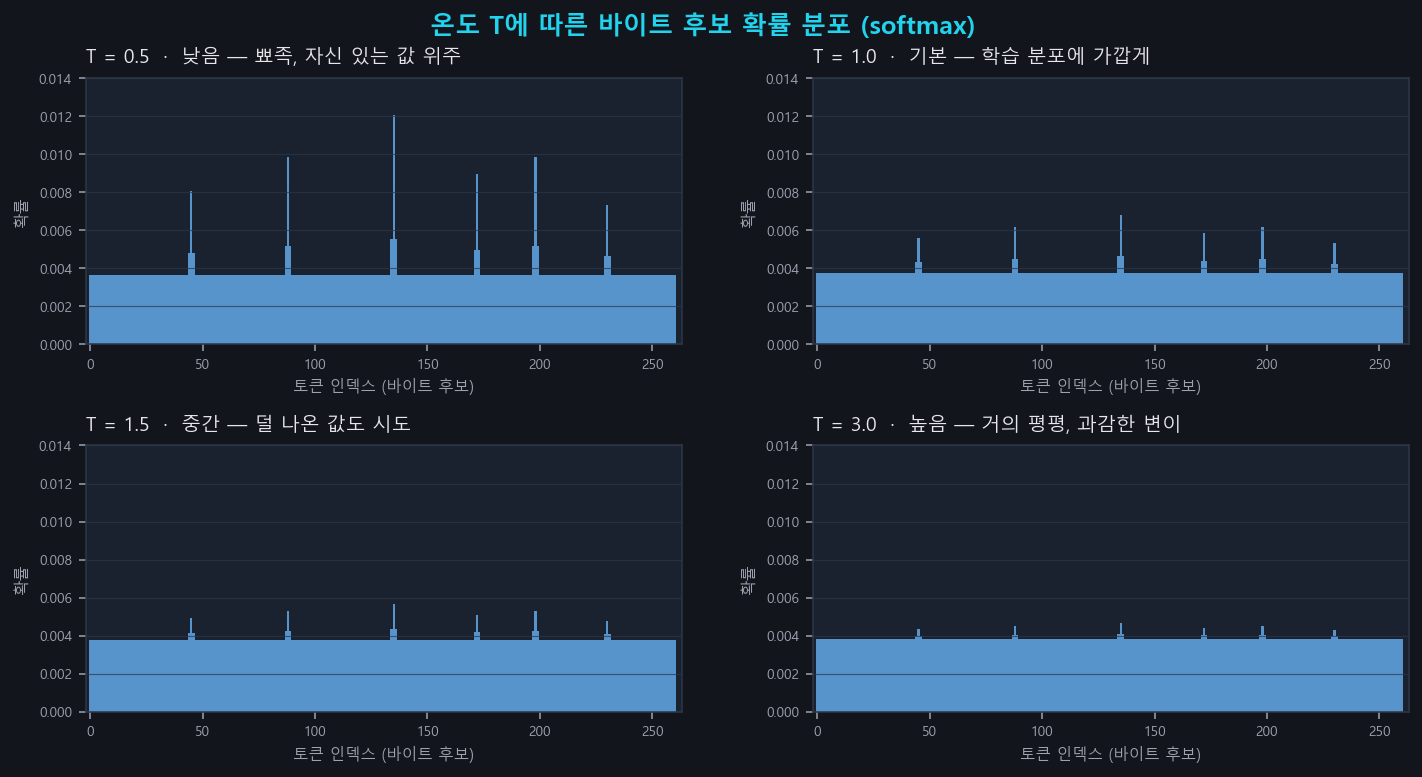
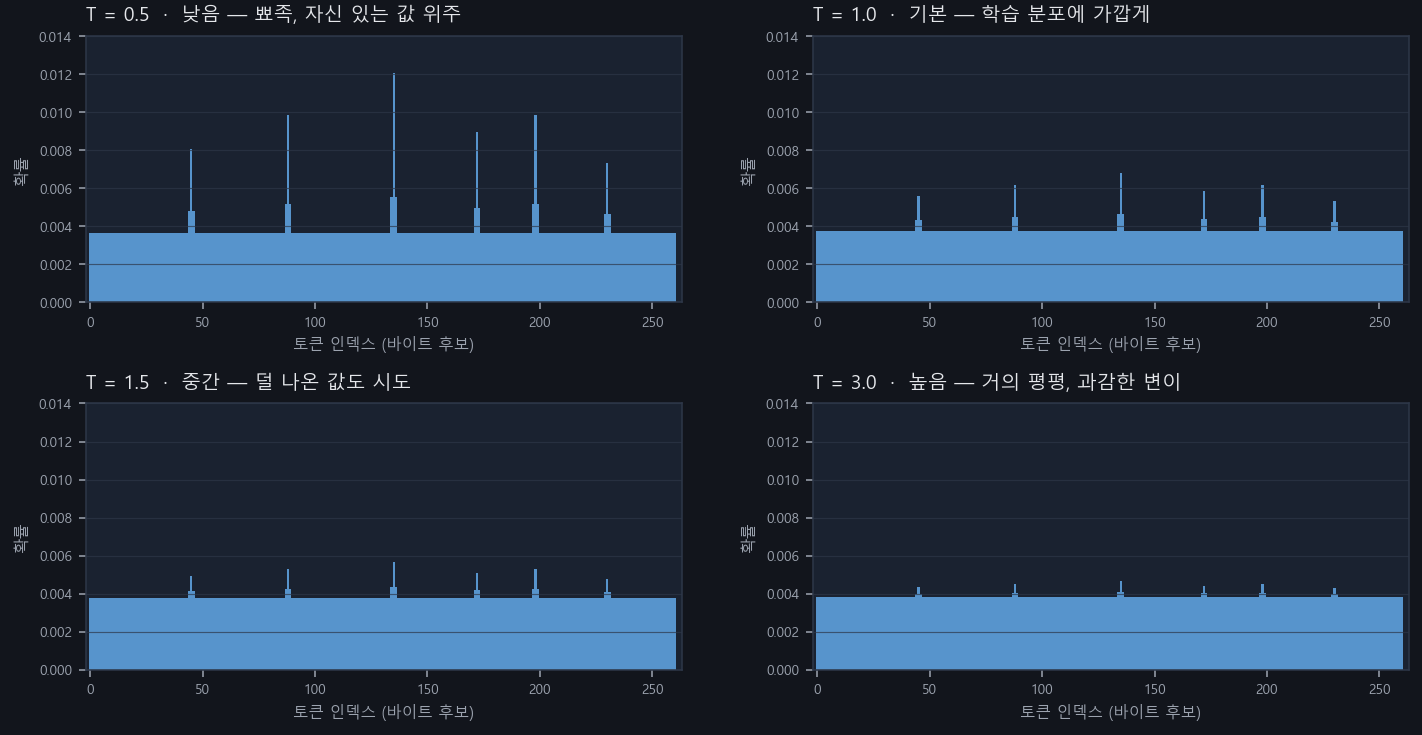
Simplify fuzzing post wording for general readers.
Replace jargon and colloquial phrasing with clearer terms, and link the related anomaly-detection post.

diff --git a/content/posts/papers/roberta-ics-protocol-fuzzing/index.md b/content/posts/papers/roberta-ics-protocol-fuzzing/index.md
@@ -15,52 +15,52 @@ thumbnail: thumbnail.png
 
 # 핵심 요약
 
-- **문제:** 공장·발전소 같은 **ICS/OT** 장비는 보안 점검을 위해 이상한 패킷을 대량으로 넣어 보는 **퍼징**이 필요합니다. 그런데 Modbus/TCP처럼 형식이 엄격한 프로토콜에서는 **막 찢어 버린 입력**은 파서에서 걸리고, **명세 기반으로 템플릿**을 짜 두는 방식은 독점·비공개 프로토콜마다 사람 손이 많이 갑니다.
+- **문제:** 공장·발전소 장비는 멈추면 사고로 이어질 수 있어, **실행 중에만 드러나는 약점**을 찾기 위해 이상한 입력을 넣어 보는 **퍼징(동적 분석)** 이 필요합니다. 그런데 Modbus/TCP처럼 형식이 엄격한 통신에서는 **바이트를 무작위로 바꾼 입력**은 입구에서 바로 걸러지고, **규격서 기반으로 템플릿**을 짜 두는 방식은 제조사마다 통신 방식이 달라 사람 손이 많이 갑니다.
 
-- **방법:** **공격 패킷 없이, 정상 패킷만** 모아 RoBERTa에 “이 위치에는 보통 이런 바이트가 온다”는 패턴을 가르칩니다. 그다음 빈 칸(`<mask>`)을 채워 **새 패킷을 생성**합니다. 프로토콜 명세나 수작업 파서 없이 진행하는 **Parser-free** 방식이며, 이상 탐지 논문과 같이 **1바이트=1토큰**으로 바이트 자리를 유지합니다. 생성할 때 **복원 순서**로 속도와 정밀도를, **온도**로 보수적 선택과 과감한 변이를 조절합니다.
+- **방법:** **공격 패킷 없이, 정상 패킷만** 모아 RoBERTa에 “이 위치에는 보통 이런 바이트가 온다”는 패턴을 가르칩니다. 그다음 빈 칸(`<mask>`)을 채워 **새 패킷을 생성**합니다. 통신 규격서나 패킷을 읽는 코드를 사람이 미리 짜 두지 않고 진행하며, [RoBERTa Quadrant Mapping 기반 ICS 독점 프로토콜 이상 탐지](https://hyeonseok93.github.io/posts/roberta-quadrant-mapping-ics/)와 같이 **1바이트=1토큰**으로 바이트 자리를 유지합니다. 생성할 때는 **빈 칸을 채우는 순서**로 빠르게 많이 만들지·형식을 더 잘 맞출지를 고르고, **변이 강도(온도)** 로 안전한 값 위주와 다양한 변이 사이를 조절합니다.
 
-- **결과:** Modbus/TCP 실험에서 제안 방식은 **명세 기반보다 커버리지·다양성**에서, **랜덤 변이보다 파서 통과율·의미 있는 탐색**에서 앞섰고, **Parallel** 설정으로 **비교군 최고 수준의 처리량**도 냈습니다. 복원 순서·온도로 속도와 변이 강도를 조절할 수 있으며, 학습 패킷만 바꿔도 **그 현장 트래픽에 맞는** 입력이 나옵니다.
+- **결과:** Modbus/TCP 실험에서 제안 방식은 **규격서 기반보다 서버 안쪽을 더 깊게·더 다양하게** 검사했고, **랜덤 변이보다 형식을 지키면서도 의미 있는 탐색**을 더 잘했습니다. 설정에 따라 **하루 수백만 건**까지 보내는 속도도 나왔습니다. 빈 칸을 채우는 순서와 변이 강도(온도)로 속도와 탐색 폭을 조절할 수 있으며, 학습 패킷만 바꿔도 **그 현장 트래픽에 맞는** 입력이 나옵니다.
 
-# 서론. ICS에서 퍼징이 왜 어려운가
+# 서론. 공장 장비 퍼징이 왜 어려운가
 
 ## 1. 공장 장비는 왜 보안 테스트가 까다로운가
 
-일반 IT와 ICS/OT는 운용 전제가 다릅니다.
+일반 IT와 산업 제어 현장은 운용 전제가 다릅니다.
 
-| 항목 | ICS/OT 운용 특성 |
+| 항목 | 산업 제어 현장의 특성 |
 | --- | --- |
-| **가동 중지(Downtime)는 곧 사고** | 발전·제조 설비는 멈추는 순간 물리적 피해로 이어질 수 있습니다. |
-| **지연(Latency) 제약** | 밀리초 단위 제어 타이밍이 중요해, 무거운 암호화·인증 계층을 얹기 어렵습니다. |
-| **긴 교체·패치 주기** | 장비 수명이 10~20년 단위이고, 계획 정비 외 패치가 어렵습니다. |
-| **벤더 이질성** | 세대·제조사가 다른 장비가 한 망에 섞여, 표준 보안 스택을 일괄 적용하기 힘듭니다. |
+| **멈추면 사고** | 발전·제조 설비는 멈추는 순간 물리적 피해로 이어질 수 있습니다. |
+| **타이밍이 중요** | 밀리초 단위 제어가 중요해, 무거운 암호화·인증을 얹기 어렵습니다. |
+| **오래 쓰는 장비** | 수명이 10~20년 단위이고, 계획 정비 외 패치가 어렵습니다. |
+| **제조사가 제각각** | 세대·제조사가 다른 장비가 한 망에 섞여, 표준 보안을 일괄 적용하기 힘듭니다. |
 
-그래서 배포 전 **정적 분석**에 많이 의존해 왔습니다. 그런데 런타임에서만 드러나는 버그나 **비공개(Closed Source) 펌웨어**는 소스를 보지 못하면 정적 분석만으로는 한계가 큽니다. **실행 중인 대상에 입력을 넣어 보는 동적 분석**이 그 빈틈을 메우는 보완 수단으로 거론되며, ICS에서도 **퍼징**이 자주 이야기되는 이유가 여기 있습니다.
+그래서 배포 전 **정적 분석**(소스를 보고 검사)에 많이 의존해 왔습니다. 그런데 실행 중에만 드러나는 버그나 **소스가 공개되지 않은 펌웨어**는 정적 분석만으로는 한계가 큽니다. **실행 중인 대상에 입력을 넣어 보는 동적 분석**이 그 빈틈을 메우는 보완 수단으로 거론되며, 산업 제어에서도 **퍼징**이 자주 이야기되는 이유가 여기 있습니다.
 
 ## 2. 퍼징이란 무엇인가
 
-**퍼징(Fuzzing)** 은 실행 중인 대상에 변이 입력을 반복 투입해 크래시·예외 동작을 찾는 **동적 분석**입니다. 소스나 프로토콜 명세가 부족해도, 네트워크로 닿을 수 있는 대상을 실행 상태에서 검증할 수 있습니다.
+**퍼징(Fuzzing)** 은 실행 중인 대상에 변이 입력을 반복해서 넣어 보고, 크래시·예외 동작을 찾는 **동적 분석**입니다. 소스나 통신 규격서가 부족해도, 네트워크로 닿을 수 있는 대상을 실행 상태에서 검증할 수 있습니다.
 
 > 💡 **쉽게 말하면**  
-> 프로그램·장비에 엉뚱한 입력을 대량으로 넣어 보고, **언제 이상하게 반응하는지** 관찰하는 테스트입니다.
+> 프로그램·장비에 엉뚱한 입력을 많이 넣어 보고, **언제 이상하게 반응하는지** 관찰하는 테스트입니다.
 
-아이디어는 단순하지만, ICS에 그대로 적용하면 **입력을 대량으로 넣는다**는 전제부터 걸림돌을 만나는 경우가 많습니다.
+아이디어는 단순하지만, 산업 제어에 그대로 적용하면 **입력을 많이 넣는다**는 전제부터 걸림돌을 만나는 경우가 많습니다.
 
-## 3. 파서가 만드는 장벽
+## 3. 입구에서 걸리는 문제
 
-가장 흔한 걸림돌이 **파서**입니다. Modbus/TCP 같은 ICS 프로토콜은 **포맷 제약이 엄격**합니다. 헤더·길이·기능 코드가 어긋나면 입구인 **파서**에서 패킷이 버려집니다.
+가장 흔한 걸림돌이 **패킷을 읽는 입구**입니다. Modbus/TCP 같은 산업용 통신은 **포맷 제약이 엄격**합니다. 헤더·길이·명령 코드가 어긋나면 입구에서 패킷이 버려집니다.
 
-- **랜덤 변이 기반** 퍼징은 빠르지만 패킷 형태가 쉽게 깨져, 상당수가 파서 앞에서 걸러집니다.
-- **명세 기반** 퍼징은 형식은 잘 맞추지만, 독점 프로토콜마다 템플릿을 사람이 짜야 합니다.
+- **랜덤 변이 기반** 퍼징은 빠르지만 패킷 형태가 쉽게 깨져, 상당수가 입구에서 걸러집니다.
+- **규격서 기반** 퍼징은 형식은 잘 맞추지만, 제조사마다 통신 방식이 달라 템플릿을 사람이 짜야 합니다.
 
-그렇다면 **명세나 수작업 파서 없이**, 입구인 파서를 통과할 만한 입력을 안정적으로 만들 방법은 없을까?
+그렇다면 **규격서나 패킷을 읽는 코드를 사람이 미리 짜 두지 않고도**, 입구를 통과할 만한 입력을 안정적으로 만들 방법은 없을까?
 
 ## 4. 이 논문이 던진 질문
 
-한 걸음 물러 서 보면, 프로토콜도 결국 **규칙이 있는 데이터**입니다. 헤더·길이·기능 코드가 맞아야 통과하니, 자연어의 **문법**과도 닮았습니다. 그렇다면 패킷 흐름을 **하나의 언어**로 보고, **정상 트래픽만**으로 그 규칙을 익힐 수 있지 않을까요?
+한 걸음 물러 서 보면, 프로토콜도 결국 **규칙이 있는 데이터**입니다. 헤더·길이·명령 코드가 맞아야 통과하니, 자연어의 **문법**과도 닮았습니다. 그렇다면 패킷 흐름을 **하나의 언어**로 보고, **정상 트래픽만**으로 그 규칙을 익힐 수 있지 않을까요?
 
-**마스킹 언어 모델(Masked Language Model, MLM)** 은 일부를 가려 두고 나머지를 맞추며 문법을 배웁니다. 정상 패킷으로 학습하면 **어느 정도 형식은 지키면서** 살짝 어긋난 입력을 뽑을 수 있고, 명세서나 수작업 파서 없이도 파서를 통과할 만한 퍼징 입력을 만들 여지가 있습니다. 논문은 이 아이디어를 이렇게 질문으로 정리합니다.
+**마스킹 언어 모델(Masked Language Model, MLM)** 은 일부를 가려 두고 나머지를 맞추며 문법을 배웁니다. 정상 패킷으로 학습하면 **어느 정도 형식은 지키면서** 살짝 어긋난 입력을 뽑을 수 있고, 규격서나 패킷을 읽는 코드를 새로 짜지 않아도 입구를 통과할 만한 퍼징 입력을 만들 여지가 있습니다. 논문은 이 아이디어를 이렇게 질문으로 정리합니다.
 
-> 프로토콜 명세서 없이, **정상 패킷만**으로 **MLM** 을 사용해 퍼징 입력을 생성할 수 있을까?  
+> 통신 규격서 없이, **정상 패킷만**으로 **MLM** 을 사용해 퍼징 입력을 생성할 수 있을까?  
 > MLM을 사용했을 때 **유효성·다양성·속도**를 조절할 수 있을까?
 
 # 제안 기법. 정상 패킷만으로 문법을 익히고, 빈칸을 채워 새 입력을 만든다
@@ -126,13 +126,13 @@ thumbnail: thumbnail.png
 
 **Sequential** — **왼쪽에서 오른쪽**으로 한 칸씩 채웁니다. 앞에서 정한 값이 다음 칸 판단에 반영되어 형식이 잘 맞지만, 패킷 길이만큼 모델을 반복 호출해야 해서 느립니다.
 
-**Ends_Center** — **양끝을 먼저** 고정한 뒤 가운데를 채웁니다. Modbus/TCP처럼 헤더·길이가 전체 틀을 잡고 본문이 그 안을 채우는 구조에 맞는 절충입니다.
+**Ends_Center** — **왼쪽과 오른쪽을 번갈아** 한 칸씩 채웁니다. 이미 채운 값이 다음 칸 판단에 반영되며, 바깥쪽에서 안쪽으로 좁혀 가며 복원합니다. Modbus/TCP처럼 헤더·길이가 전체 틀을 잡고 본문이 그 안을 채우는 구조에 맞는 절충입니다.
 
 ![Fig.3 복원 순서 — Parallel · Sequential · Ends_Center](./fig3.png)
 
 ## 6. 샘플링 온도
 
-`<mask>` 한 칸을 채울 때, 모델은 “이 자리에 올 수 있는 바이트”마다 **점수**를 매깁니다. **softmax**로 점수를 확률로 바꾼 뒤 그중 하나를 뽑는데, 여기에 **온도 T**를 넣으면 그 확률 곡선의 날카로움을 조절할 수 있습니다. T가 **낮을수록** 자신 있는 값에 확률이 몰려 보수적으로 고르고, T가 **높을수록** 덜 나온 값에도 기회가 넓어져 **얼마나 과감하게 뽑을지**를 바꿀 수 있습니다.
+`<mask>` 한 칸을 채울 때, 모델은 “이 자리에 올 수 있는 값”마다 **점수**를 매깁니다. **softmax**로 점수를 확률로 바꾼 뒤 그중 하나를 뽑는데, 여기에 **온도 T**를 넣으면 그 확률 곡선의 날카로움을 조절할 수 있습니다. T가 **낮을수록** 자신 있는 값에 확률이 몰려 보수적으로 고르고, T가 **높을수록** 덜 나온 값에도 기회가 넓어져 **얼마나 과감하게 뽑을지**를 바꿀 수 있습니다.
 
 - **낮은 온도** — 모델이 자신 있는 값 위주로 고릅니다. 패킷 형식이 잘 맞는 편입니다.
 - **높은 온도** — 덜 자주 나오는 값도 골라 냅니다. 다양해지지만, 형식이 깨질 확률도 함께 올라갑니다.
@@ -147,13 +147,13 @@ thumbnail: thumbnail.png
 
 **대상** — `libmodbus`로 만든 **연구용 Modbus/TCP 서버**입니다. 기능 코드를 넓게 처리하도록 구성했고, 서버가 어떤 코드 경로를 탔는지 재기 위해 커버리지 계측을 붙였습니다. 각 설정마다 **24시간** 동일 서버에 패킷을 보냈습니다.
 
-**학습 데이터는 두 종류**였습니다. 하나는 명세를 바탕으로 만든 **인공 정상 패킷(CSS)** 이고, 다른 하나는 **소규모 태양광 발전소**에서 뽑은 **실측 패킷(ICS)** 입니다. 같은 모델이라도 무엇을 먹고 자랐느냐에 따라 어떤 패킷을 만들어 내는지도 달라지는지 보기 위해서입니다.
+**학습 데이터는 두 종류**였습니다. 하나는 명세를 바탕으로 만든 **생성된 정상 패킷(CSS)** 이고, 다른 하나는 **소규모 태양광 발전소**에서 뽑은 **실측 패킷(ICS)** 입니다. 같은 모델이라도 **무엇을 학습했느냐**에 따라 어떤 패킷을 만들어 내는지도 달라지는지 보기 위해서입니다.
 
 **비교군**은 크게 세 갈래입니다.
 
-- **제안 방식** — 복원 순서(Parallel / Sequential / Ends_Center)와 온도, 길이 후보정 여부를 바꿔 가며 여러 설정을 시험했습니다.
+- **제안 방식** — 복원 순서(Parallel / Sequential / Ends_Center)와 온도를 바꿔 가며 여러 설정을 시험했습니다.
 - **명세 기반** — Modbus/TCP 명세를 사람이 템플릿으로 짜 두고 필드를 변이하는 **전통적인 방식**입니다.
-- **랜덤 변이 기반** — 정상 패킷을 시드로 두고 **무작위로 찢어** 만드는 방식입니다. 길이만 맞추거나 헤더 일부를 복구하는 보정 버전도 함께 비교했습니다.
+- **랜덤 변이 기반** — 정상 패킷을 시드로 두고 **바이트를 무작위로 바꿔** 만드는 방식입니다. 길이만 맞추거나 헤더 일부를 복구하는 보정 버전도 함께 비교했습니다.
 
 # 결과. 명세 기반·랜덤 변이와의 비교
 
@@ -161,7 +161,7 @@ thumbnail: thumbnail.png
 
 1. **탐색 깊이** — 명세 기반은 분기 커버리지 **30% 안팎**에 머물렀지만, 제안 방식은 **40%대**까지 올라갔습니다. 랜덤 변이 기반과 숫자는 비슷해 보여도, 후자는 **절반 가까이 파서에서 떨어져** 실제로 서버에 닿는 입력이 적습니다.
 2. **처리량** — **Parallel** + 낮은 온도는 하루 **400만 건** 가까이 생성해, 비교군 중 **가장 빠른 축**에 들었습니다. 명세 기반도 빠르지만, 제안 방식은 **속도를 유지하면서** 위 1번의 커버리지를 동시에 노릴 수 있는 설정이 있습니다.
-3. **형식 + 다양성** — 명세 기반은 파싱은 통과하지만 유니크 패킷 비율이 **53%** 수준이고, 랜덤 변이 기반 (보정)은 **Invalid 99%**로 읽기·쓰기를 거의 두드리지 못합니다. 제안 방식은 **파싱 실패를 낮게 유지**하면서 유니크 비율 **90% 이상**을 동시에 맞출 수 있었습니다.
+3. **형식 + 다양성** — 명세 기반은 파싱은 통과하지만 유니크 패킷 비율이 **53%** 수준이고, 랜덤 변이 기반 (보정)은 **Invalid 99%**로 읽기·쓰기를 거의 검사하지 못합니다. 제안 방식은 **파싱 실패를 낮게 유지**하면서 유니크 비율 **90% 이상**을 동시에 맞출 수 있었습니다.
 4. **의미 있는 변이 위치** — 명세 기반은 본문만, 랜덤 변이는 헤더까지 깨뜨려 입구에서 막히기 쉽습니다. 제안 방식은 **헤더는 안정적으로 두고 본문에서 예외를 유도**하는 패턴을 만들 수 있었습니다.
 5. **현장 맞춤** — 학습 패킷만 바꿔도 기능 코드 분포가 달라져, **수작업 템플릿 없이** 그 환경 트래픽에 맞는 퍼징이 가능했습니다.
 
@@ -169,21 +169,21 @@ thumbnail: thumbnail.png
 
 ## 1. 서버 안을 얼마나 깊게 들어갔나
 
-가장 먼저 본 것은 **코드 커버리지**입니다. “이 퍼저가 서버 코드의 구석구석까지 건드렸는가?”를 보는 지표입니다.
+가장 먼저 본 것은 **서버 코드의 얼마나 많은 부분을 실제로 실행했는가**입니다. 같은 24시간 동안, 제안 방식이 서버 안쪽까지 더 깊게 들어갔는지를 보는 지표입니다.
 
-명세 기반 방식은 형식은 잘 맞췄지만, 사람이 짜 둔 템플릿 안에서 **비슷한 경로만 반복**하는 경향이 있었습니다. 실제로 **분기 커버리지는 30% 안팎**, **영역 커버리지도 32% 전후**에 머물렀습니다. 같은 24시간에도 **서버 안쪽 분기를 덜 건드린다**는 뜻입니다.
+규격서 기반 방식은 형식은 잘 맞췄지만, 사람이 짜 둔 템플릿 안에서 **비슷한 경로만 반복**하는 경향이 있었습니다. 실제로 서버 코드의 **약 30%** 정도만 건드렸고, 같은 24시간에도 **안쪽까지는 덜 들어갔다**는 뜻입니다.
 
-랜덤 변이 기반은 **파싱 실패가 62%** 가까이 나와, 상당수 패킷이 **입구인 파서에서 잘렸습니다.** 통과분만 놓고 보면 분기 커버리지 **38% 전후**로 제안 방식과 비슷해 보이지만, **서버까지 도달한 입력 수 자체가 적어** 같은 시간에 실제 탐색량은 줄어듭니다.
+랜덤 변이 기반은 **패킷의 약 62%가 입구에서 바로 버려졌습니다.** 입구를 통과한 것만 놓고 보면 서버 코드의 **약 38%**를 건드려 제안 방식과 비슷해 보이지만, **서버까지 도착한 패킷 수 자체가 적어** 같은 시간에 **실제로 서버를 검사한 양**은 줄어듭니다.
 
-제안 방식은 온도 **1.5** 정도에서 **분기 40~41%**, **영역 42% 전후**가 나왔습니다. 복원 순서(Parallel / Sequential / Ends_Center)끼리 차이는 **1%p 안팎**으로 작지만, **명세 기반 대비 약 10%p**, **파서 탈락을 감안한 실질 탐색**에서는 랜덤 변이 기반보다 유리합니다. 핵심은 **명세서·수작업 템플릿 없이**도, 정상 트래픽만으로 **안쪽 분기까지 더 깊게** 들어갈 수 있다는 점입니다.
+제안 방식은 온도 **1.5** 정도에서 서버 코드의 **약 40~42%**까지 들어갔습니다. 빈 칸을 채우는 순서(Parallel / Sequential / Ends_Center)끼리 차이는 **1%p 안팎**으로 작지만, **규격서 기반보다 약 10%p** 더 깊고, 입구에서 많이 걸러지는 랜덤 변이보다 **실질적으로 더 많이 탐색**합니다. 핵심은 **규격서·수작업 템플릿 없이**도, 정상 트래픽만으로 **서버 안쪽까지 더 깊게** 들어갈 수 있다는 점입니다.
 
 ## 2. 하루에 몇 개나 보냈나
 
-**Parallel** 계열, 특히 온도를 낮게 둔 설정은 **가장 빨랐습니다.** 하루 **약 404만 건**, 초당 **47건** 가까이 생성했습니다. 명세 기반(**약 260만 건/일**)보다 많고, 랜덤 변이 기반 보정 버전과도 **비슷하거나 더 많이** 보냈습니다. GPU에서 빈칸을 **한 번에** 채우기 때문입니다.
+빈 칸을 **한 번에** 채우는 설정(Parallel), 특히 온도를 낮게 둔 경우는 **가장 빨랐습니다.** 하루 **약 404만 건**, 초당 **47건** 가까이 만들었습니다. 규격서 기반(**약 260만 건/일**)보다 많고, 랜덤 변이 기반(보정)과도 **비슷하거나 더 많이** 보냈습니다. GPU에서 빈칸을 한꺼번에 채우기 때문입니다.
 
-반면 **Sequential**·**Ends_Center**는 하루 **30만 건 전후**, 초당 **3~4건**으로 느립니다. 대신 형식이 잘 맞고 커버리지·품질 쪽 이점이 큽니다. 제안 방식만 **속도 우선(Parallel)** 과 **품질 우선(Sequential / Ends_Center)** 을 **설정 하나로 갈아탈** 수 있다는 점이 비교군과 다릅니다.
+반면 한 칸씩 채우는 설정(Sequential)·왼쪽·오른쪽을 번갈아 채우는 설정(Ends_Center)은 하루 **30만 건 전후**, 초당 **3~4건**으로 느립니다. 대신 형식이 잘 맞고, 서버 안쪽을 더 깊게·더 알차게 검사하는 쪽에 가깝습니다. 제안 방식만 **빠르게 많이 보내기**와 **형식을 더 잘 맞추기**를 **설정 하나로 갈아탈** 수 있다는 점이 비교군과 다릅니다.
 
-**길이 후보정**을 켜면 하루 **320만 건** 이상으로 양을 더 늘릴 수 있지만, 커버리지는 조금 떨어질 수 있습니다. “많이 보냈다”와 “깊게 탔다”는 자동으로 같아지지 않습니다.
+다만 **많이 보냈다**고 해서 자동으로 **깊게 들어갔다**는 뜻은 아닙니다. 속도와 깊이는 따로 봐야 합니다.
 
 ## 3. 패킷은 제대로 먹혔나, 매번 달랐나
 
@@ -202,7 +202,7 @@ Modbus/TCP 패킷은 **헤더(MBAP)** — Transaction ID, Protocol ID, Length, U
 
 명세 기반 방식은 **헤더 오류 0%**, **본문 오류 93%**로, 헤더는 그대로 두고 **본문만** 이상하게 보냅니다. 랜덤 변이 기반은 **헤더·본문 모두** 깨뜨려 **입구에서 막히거나** 의미 없는 변이가 섞입니다.
 
-제안 방식은 **낮은 온도**에서 **헤더 오류 0.1% 미만**, **본문 오류 55~58%**로, **형식은 통과시키고 본문에서 버그를 찾는** 방향에 가깝습니다. 명세 기반과 같이 헤더를 살리면서도, 온도를 조절해 **본문 변이 강도**를 바꿀 수 있습니다. 랜덤 변이가 헤더까지 망가뜨려 버리는 것과 달리, **파서를 통과한 뒤 안쪽 로직**을 두드리기 쉽습니다.
+제안 방식은 **낮은 온도**에서 **헤더 오류 0.1% 미만**, **본문 오류 55~58%**로, **형식은 통과시키고 본문에서 버그를 찾는** 방향에 가깝습니다. 명세 기반과 같이 헤더를 살리면서도, 온도를 조절해 **본문 변이 강도**를 바꿀 수 있습니다. 랜덤 변이가 헤더까지 망가뜨려 버리는 것과 달리, **입구를 통과한 뒤 안쪽 로직**을 검사하기 쉽습니다.
 
 ## 5. 읽기·쓰기 명령은 얼마나 건드렸나
 
@@ -210,13 +210,13 @@ Modbus/TCP 패킷은 **헤더(MBAP)** — Transaction ID, Protocol ID, Length, U
 
 명세 기반 방식은 읽기/쓰기 비중은 있지만 **Write OOB(범위 밖 쓰기) 70%**에 치우쳐, **한쪽 예외만 반복**하기 쉽습니다. 랜덤 변이 기반 (보정)은 **Invalid 99%**로 **읽기·쓰기 명령을 거의 쓰지 못합니다.**
 
-제안 방식은 **T=1.0**에서 **Write OK 약 15%**, **Read OK 약 5%**, **Invalid 16~23%**로, **정상·범위 밖·무효**가 섞인 입력을 안정적으로 만들었습니다. 현장에서 민감한 **코일·레지스터 읽기/쓰기 표면**을, 명세 기반처럼 한쪽으로만 치우치지도 않고, 랜덤 변이처럼 아예 두드리지도 못하는 문제를 피할 수 있었습니다.
+제안 방식은 **T=1.0**에서 **Write OK 약 15%**, **Read OK 약 5%**, **Invalid 16~23%**로, **정상·범위 밖·무효**가 섞인 입력을 안정적으로 만들었습니다. 현장에서 민감한 **코일·레지스터 읽기/쓰기**를, 명세 기반처럼 한쪽으로만 치우치지도 않고, 랜덤 변이처럼 아예 검사하지도 못하는 문제를 피할 수 있었습니다.
 
 ## 6. 학습 데이터만 바꿔도 패턴이 바뀐다
 
 같은 RoBERTa 구조라도, **무엇을 학습했느냐**에 따라 만드는 패킷 분포가 달라졌습니다.
 
-**CSS(명세 기반 인공 데이터)** 로 학습하면 지원하는 기능 코드 전반에 **고르게** 패킷이 나갑니다. **ICS(태양광 발전소 실측 패킷)** 로 학습하면, 현장에서 자주 보이는 **0x03, 0x04, 0x06** 같은 코드 쪽으로 변이가 **자연스럽게 몰립니다.**
+**CSS(명세 기반으로 생성된 정상 패킷)** 로 학습하면 지원하는 기능 코드 전반에 **고르게** 패킷이 나갑니다. **ICS(태양광 발전소 실측 패킷)** 로 학습하면, 현장에서 자주 보이는 **0x03, 0x04, 0x06** 같은 코드 쪽으로 변이가 **자연스럽게 몰립니다.**
 
 명세 기반·랜덤 변이 기반은 프로토콜이나 환경이 바뀔 때마다 **사람이 템플릿·규칙을 다시 짜야** 합니다. 제안 방식은 **학습 패킷만 갈아 끼우고 재학습**하면 그 환경에 맞는 퍼저가 됩니다. Parser-free의 실질적 이점은 **“정상 트래픽만 있으면, 그 현장 문법을 그대로 퍼저로 쓸 수 있다”**는 점입니다.
 
@@ -232,7 +232,7 @@ Modbus/TCP 패킷은 **헤더(MBAP)** — Transaction ID, Protocol ID, Length, U
 
 ## 정리
 
-복잡한 파서·수작업 명세 없이, **정상 트래픽의 문맥**만으로 퍼징 입력을 만들려 한 연구입니다. **1바이트=1토큰** Parser-free 설계는 이상 탐지 논문과 같은 전제이고, 여기서는 **복원 순서**와 **온도**라는 두 조절 축으로 생성기를 다룹니다.
+복잡한 파서·수작업 명세 없이, **정상 트래픽의 문맥**만으로 퍼징 입력을 만들려 한 연구입니다. **1바이트=1토큰** Parser-free 설계는 [RoBERTa Quadrant Mapping 기반 ICS 독점 프로토콜 이상 탐지](https://hyeonseok93.github.io/posts/roberta-quadrant-mapping-ics/)와 같은 전제이고, 여기서는 **복원 순서**와 **온도**라는 두 조절 축으로 생성기를 다룹니다.
 
 실험에서는 명세·랜덤 변이 기반 퍼저와 **비슷하거나 더 나은 탐색**, Parallel 계열의 **높은 처리량**, 중간 온도에서의 **형식·다양성 균형**을 확인했습니다. 학습 데이터가 바뀌면 그 시스템·현장에 맞춘 퍼징도 가능하지만, 데이터가 부족하거나 학습에 없던 기능·조합은 **구조적으로 잘 만들어 내지 못하는** MLM의 한계도 함께 드러납니다. 강점과 약점이 분명한 만큼, 그 약점을 줄이는 것이 이어질 연구의 목표입니다.
 